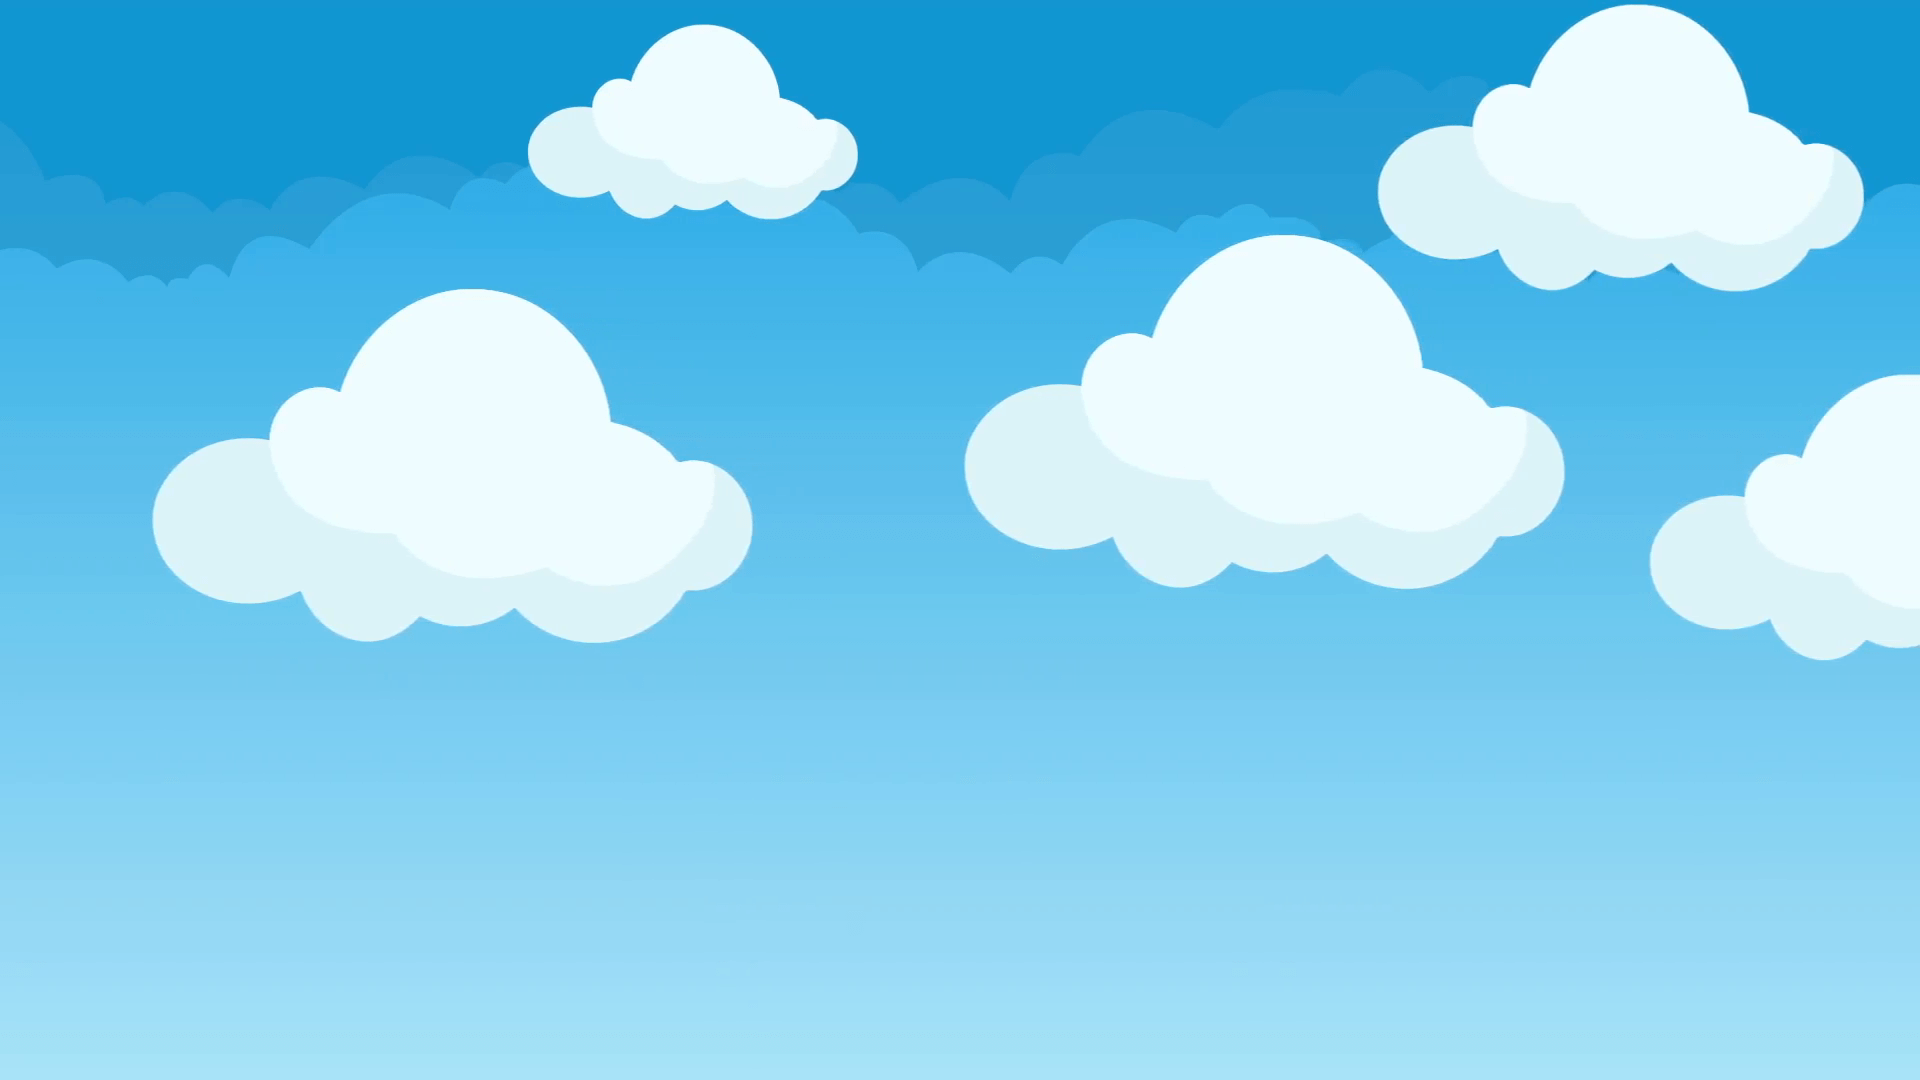
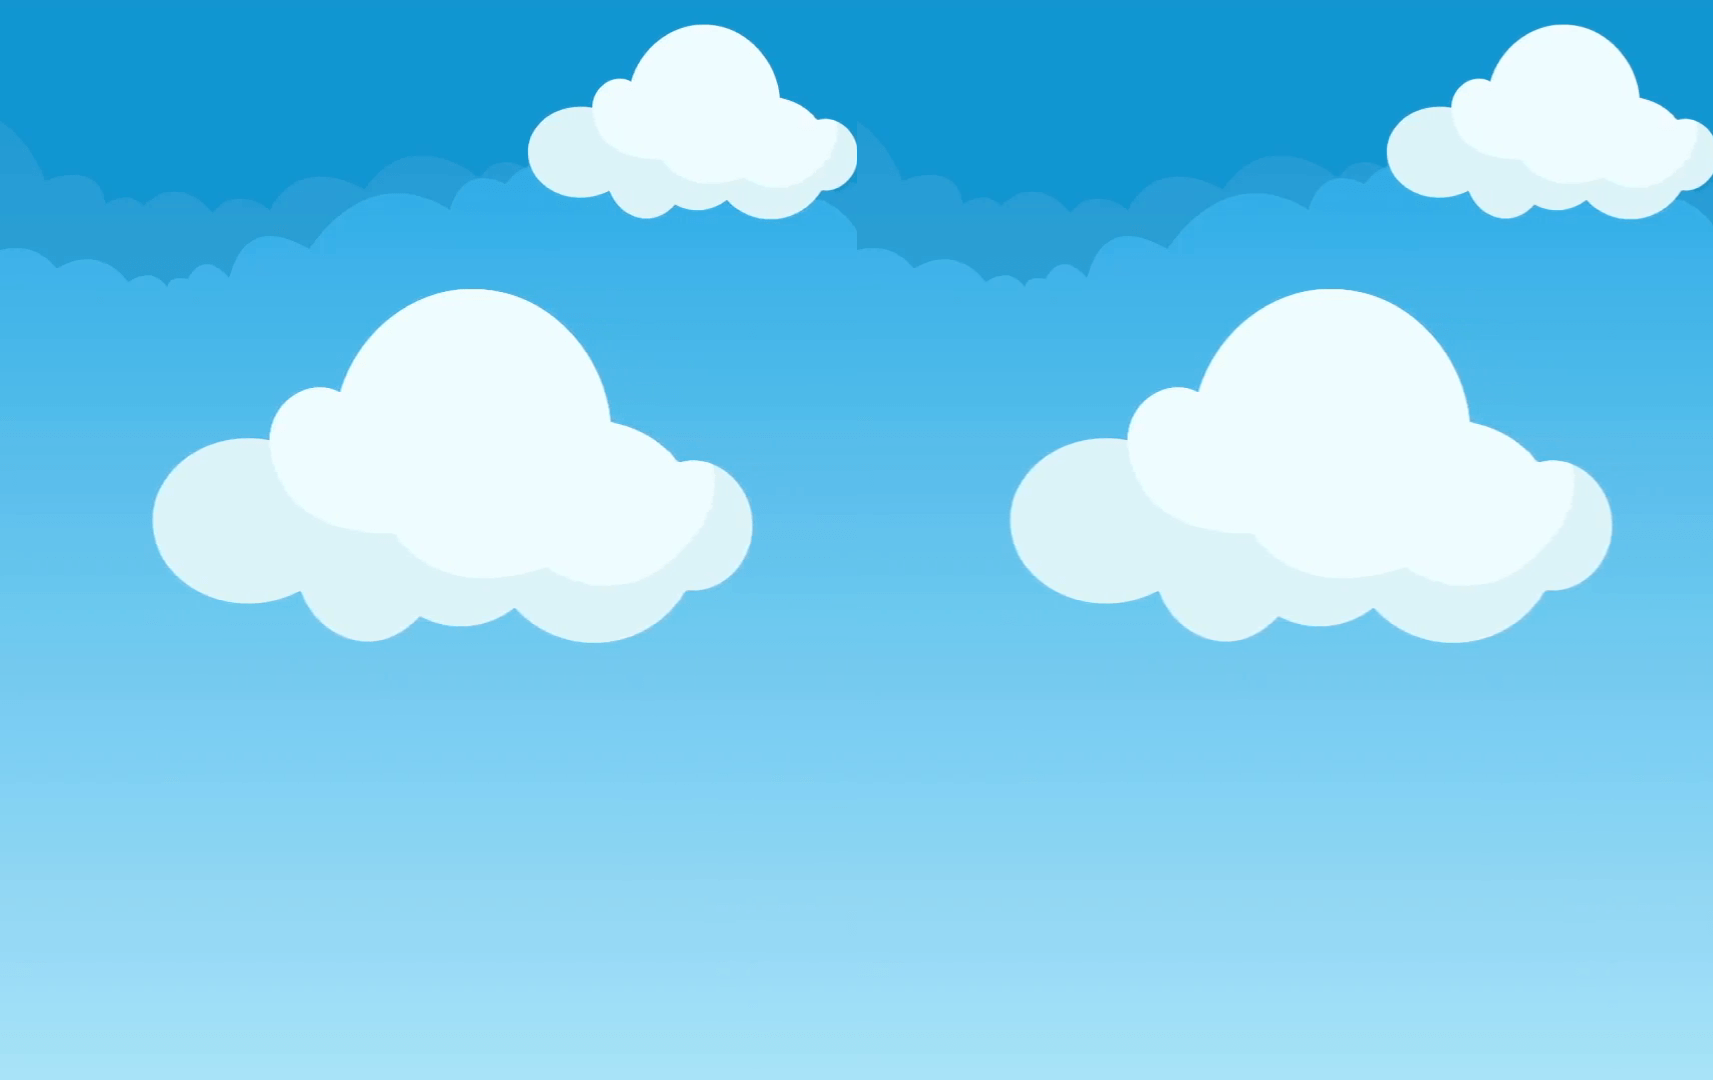
fixed(bg animation): the animation of background was upgraded

Changed region(s): [[0.4947, 0.0, 1.0, 0.6111], [0.0618, 0.2444, 0.4638, 0.6111], [0.2474, 0.0, 0.5257, 0.2139]]

diff --git a/main.py b/main.py
@@ -15,17 +15,16 @@ icon = pygame.image.load('./Graphics/Player.png')
 pygame.display.set_icon(icon)
 
 # Adding the background to the window
-
 bg_surf = pygame.image.load('./Graphics/bg.png').convert_alpha()
 bg_rect = bg_surf.get_rect(topleft = (0,0))
 movement = pygame.math.Vector2(bg_rect.topleft)
-bg_speed = 500
+bg_speed = 600
 
 def bg_animation(dt):
     global bg_rect, movement
     movement.x -= bg_speed * dt
-    if bg_rect.left <= -1400:
-        movement.x = 0
+    if bg_rect.left <= -960:
+        movement.x = -100
     bg_rect.x = movement.x
             
             
